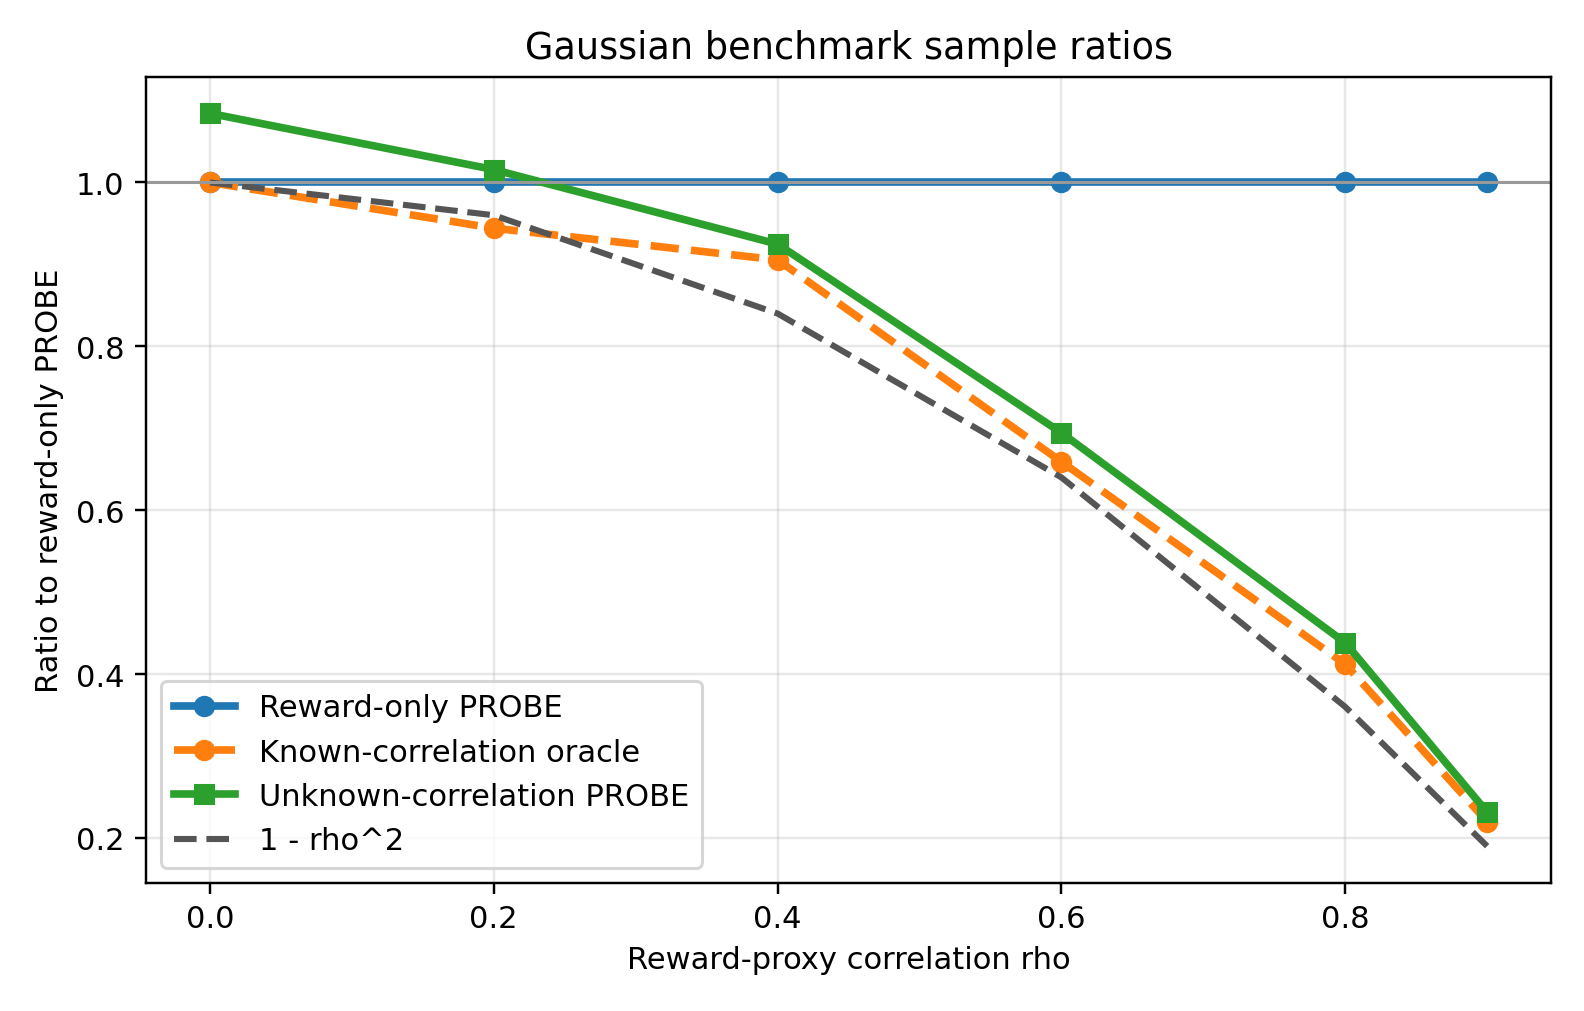
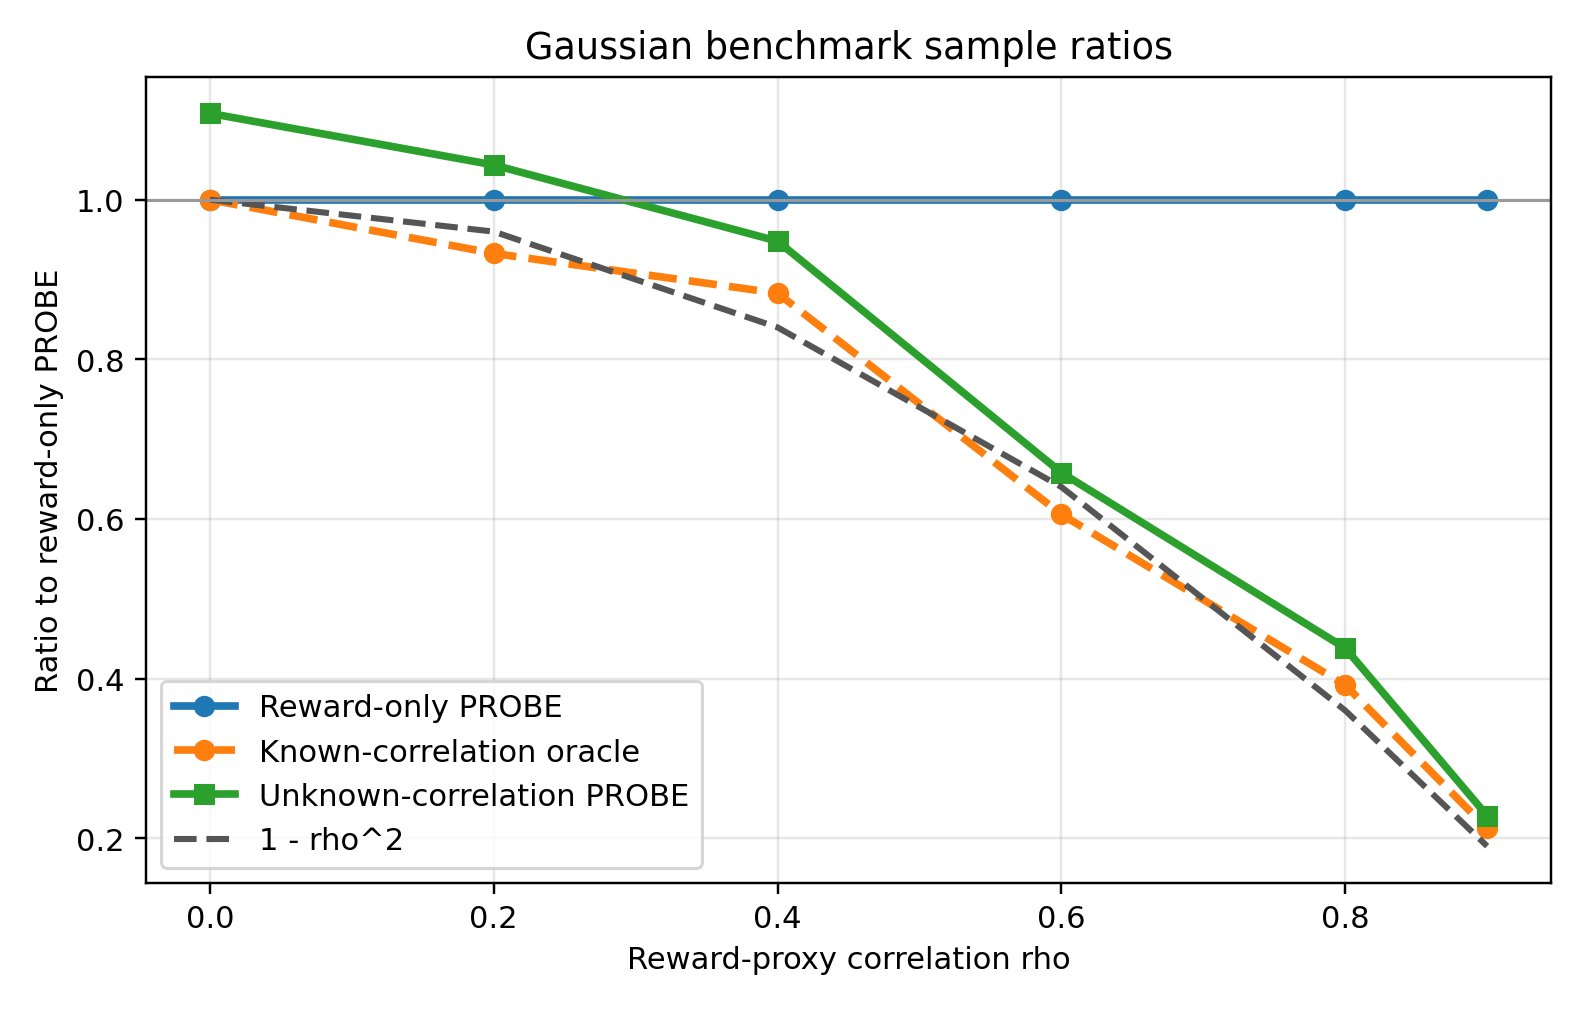
Refresh Gaussian simulation with 2000 reps

diff --git a/docs/experiment_results_interpretation.md b/docs/experiment_results_interpretation.md
@@ -81,12 +81,12 @@ Normalized sample-count ratios:
 
 | rho | reward-only mean pulls | known oracle ratio | unknown PROBE ratio | unknown correctness |
 |---:|---:|---:|---:|---:|
-| 0.0 | 7.1k | 1.000 | 1.084 | 0.982 |
-| 0.2 | 7.2k | 0.944 | 1.016 | 0.990 |
-| 0.4 | 6.8k | 0.906 | 0.925 | 0.984 |
-| 0.6 | 6.6k | 0.659 | 0.695 | 0.984 |
-| 0.8 | 6.5k | 0.412 | 0.438 | 0.990 |
-| 0.9 | 6.8k | 0.220 | 0.232 | 0.992 |
+| 0.0 | 6.8k | 1.000 | 1.108 | 0.984 |
+| 0.2 | 7.3k | 0.933 | 1.044 | 0.987 |
+| 0.4 | 6.8k | 0.883 | 0.948 | 0.980 |
+| 0.6 | 6.8k | 0.606 | 0.658 | 0.977 |
+| 0.8 | 6.7k | 0.392 | 0.438 | 0.986 |
+| 0.9 | 7.1k | 0.212 | 0.228 | 0.998 |
 
 This revised setting answers the sample-complexity concern in the first
 synthetic experiment. At `rho=0`, the reward-only baseline now stops at roughly
